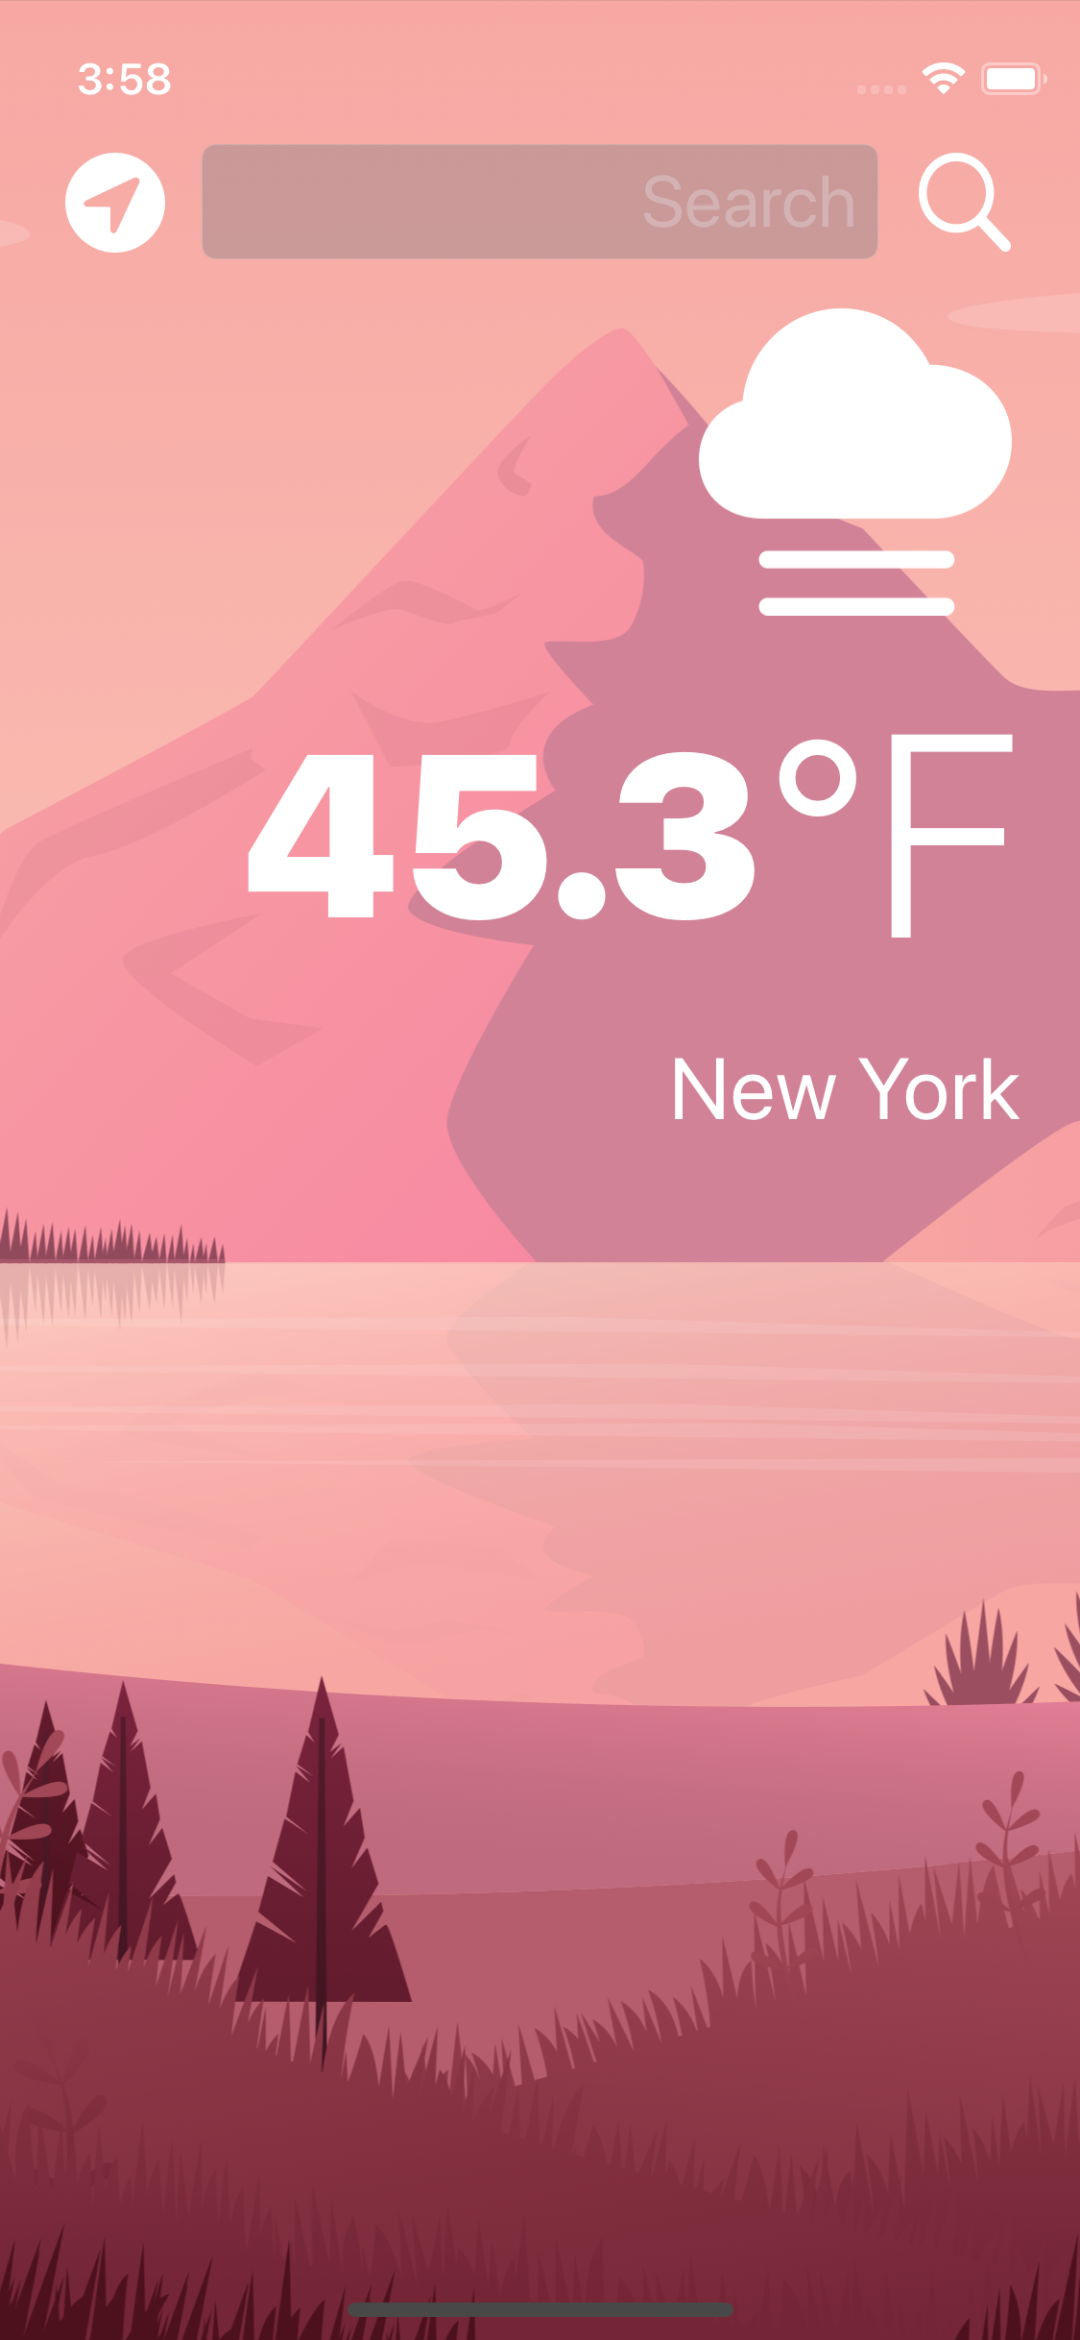
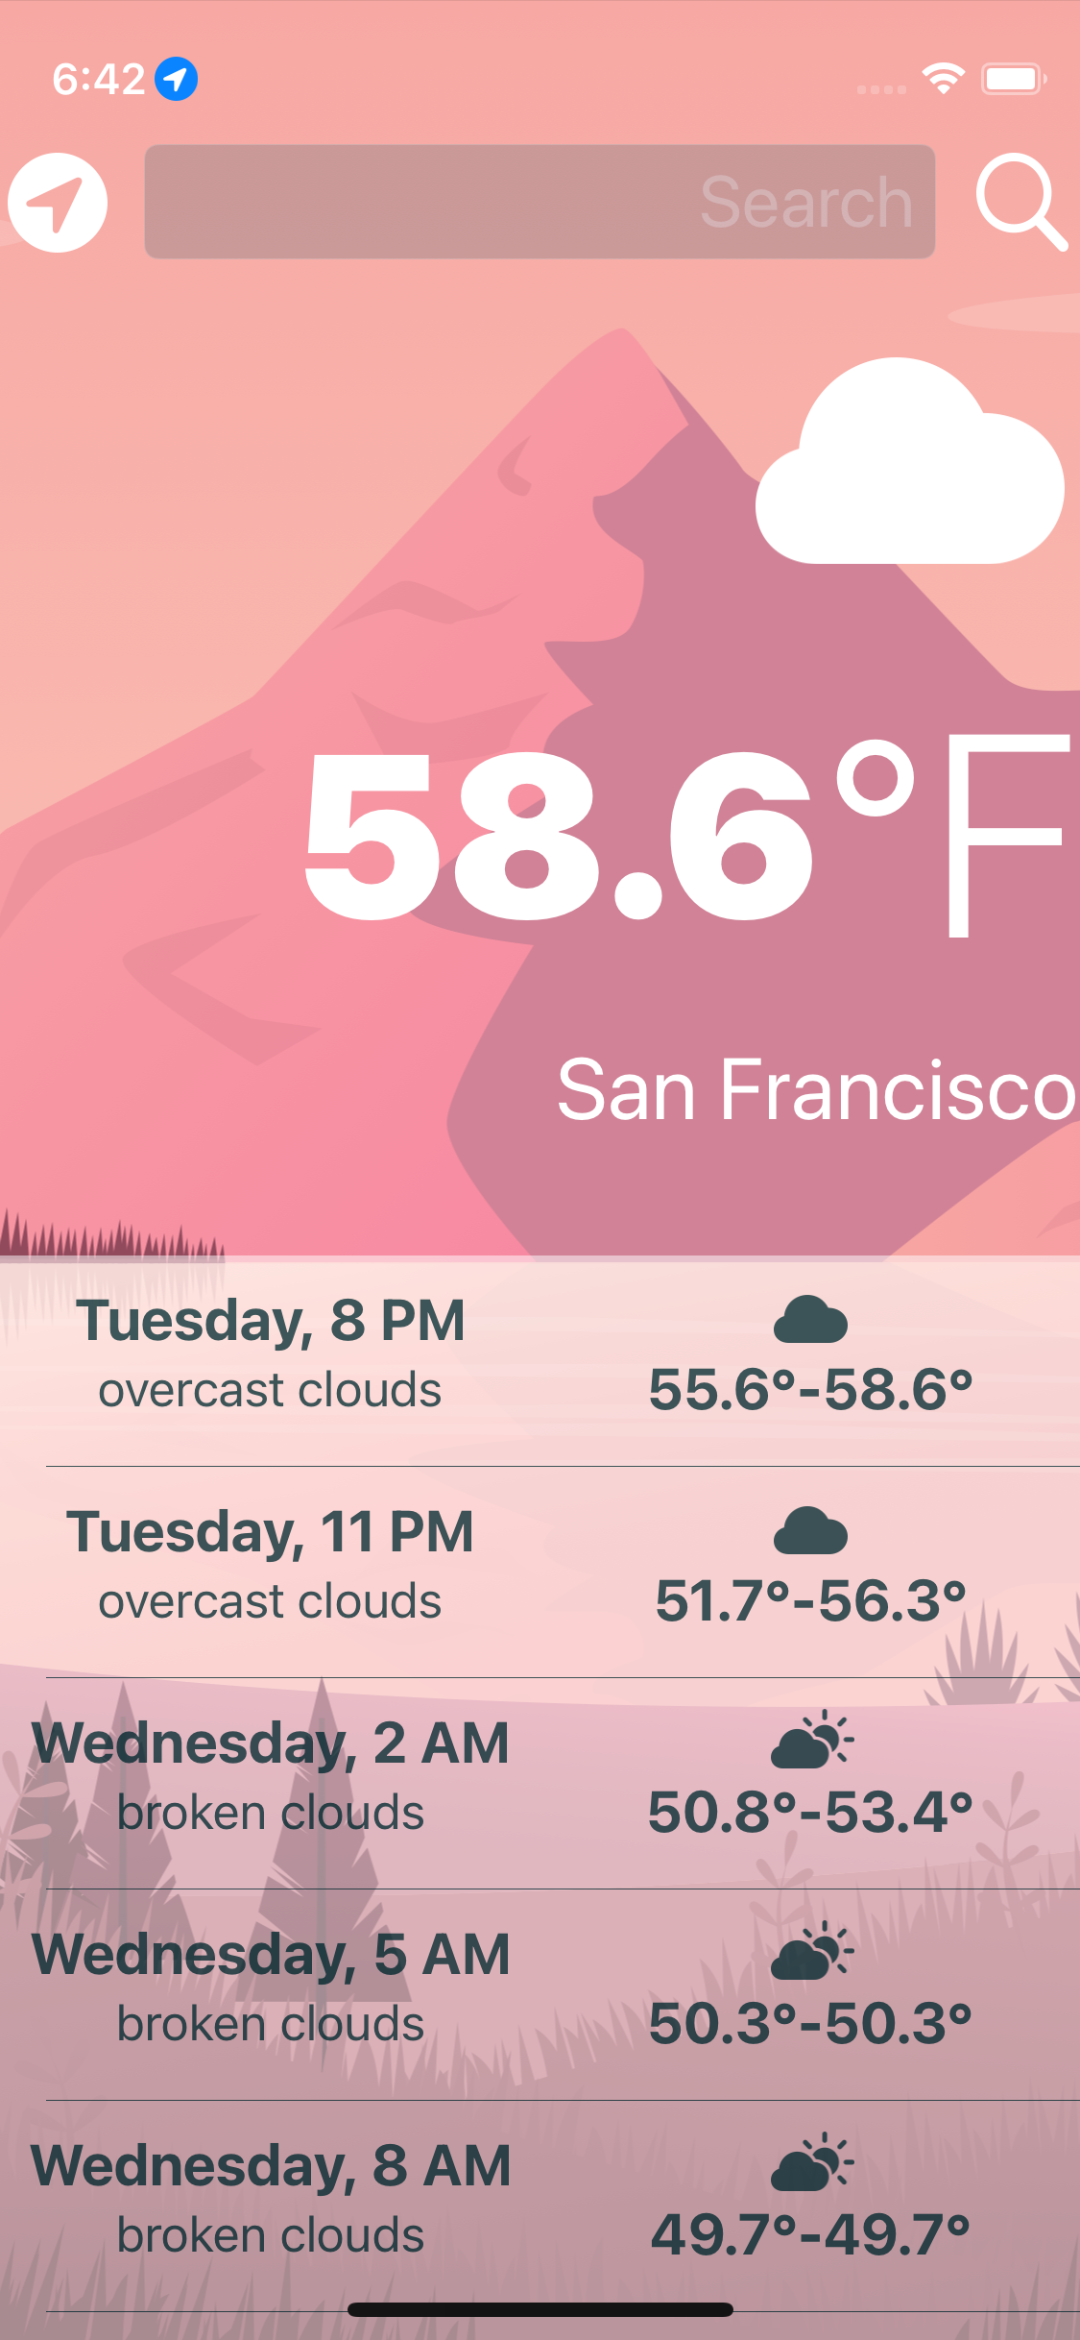
Update Sweather project info

diff --git a/src/Portfolio.svelte b/src/Portfolio.svelte
@@ -15,7 +15,7 @@
       link: '',
       imageSource: 'images/sweather_screenshot.png',
       imageAlt: 'Screenshot of Sweather app for iPhone',
-      description: 'A simple weather app. With user permission, it fetches the local weather for the user\'s current location. There is also an option for the user to search for a specific city or zip code. Uses MVC architecture.',
+      description: 'A simple weather app. With user permission, it fetches the local weather for the user\'s current location. There is also an option for the user to search for a specific city or zip code. A table view is displayed with weather forecasts in time intervals of three hours for the next five days. Uses MVC architecture.',
       technologies: 'Swift, UIKit, CoreLocation, OpenWeatherMap API'
     },
     {
